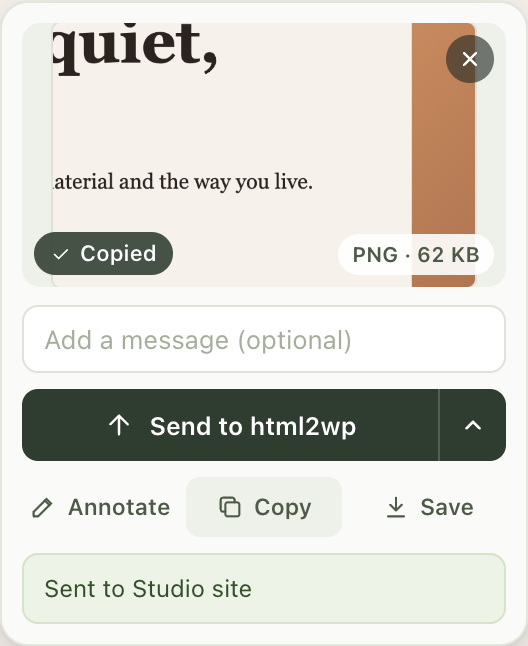
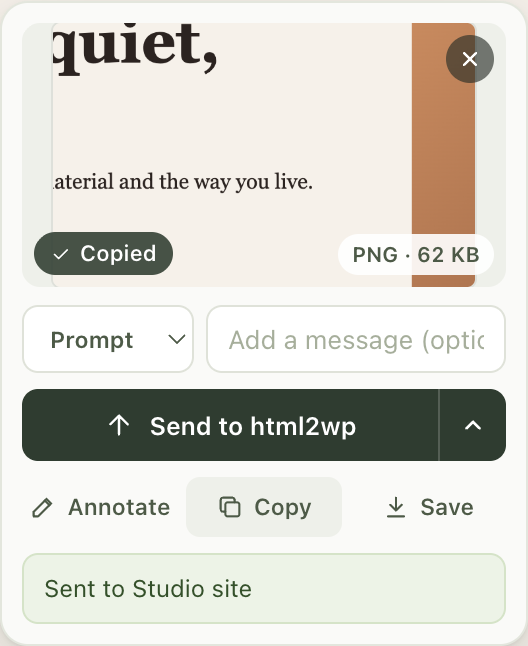
Prompt manager: saved prompts in Options, a picker in the card and editor
Four built-ins (Fix this bug, Explain this, Match this design, What's wrong
here?), seeded once. Add, edit, delete, reorder, and a default prompt that
fills each new capture's message. Right-click → Send with prompt ▸
captures the visible page and sends it with that prompt.

Claude-Session: https://claude.ai/code/session_01Xf7wTz9XZFZ1GCWzDzHaWW

Changed region(s): [[0.0909, 0.4644, 0.9091, 0.5882]]

diff --git a/src/options.js b/src/options.js
@@ -1,6 +1,6 @@
 import { connect, pair } from './bridge.js';
 import { paint } from './icons.js';
-import { PRESETS, settings, update, sitePattern, fileName, cleanSubfolder, isMac, choices, FIRST_DEFAULT } from './settings.js';
+import { PRESETS, settings, update, sitePattern, fileName, cleanSubfolder, isMac, choices, FIRST_DEFAULT, prompts } from './settings.js';
 import { getHandle, putHandle, deleteHandle } from './captures.js';
 import { FOLDER } from './save.js';
 import { acceptPastedImages } from './paste.js';
@@ -186,6 +186,61 @@ $('allow-folder').addEventListener('click', async () => {
 });
 $('forget-folder').addEventListener('click', async () => { await deleteHandle(FOLDER); await renderSaving(); });
 
+// ---- prompts ------------------------------------------------------------
+
+async function savePrompts(list) { await update({ prompts: list }); await renderPrompts(); }
+async function renderPrompts() {
+  const [list, s] = await Promise.all([prompts(), settings()]);
+  $('prompt-list').replaceChildren(...list.map((p, index) => {
+    const row = document.createElement('div');
+    row.className = 'prompt-row';
+    row.innerHTML = '<input aria-label="Prompt name" maxlength="60"><div class="moves"><button class="button up" type="button">Up</button><button class="button down" type="button">Down</button><button class="button text delete" type="button">Delete</button></div><textarea aria-label="Prompt text" maxlength="2000"></textarea>';
+    const [name, text] = [row.querySelector('input'), row.querySelector('textarea')];
+    name.value = p.name;
+    text.value = p.text;
+    name.setAttribute('aria-label', `Name of prompt ${index + 1}`);
+    text.setAttribute('aria-label', `Text of prompt ${index + 1}`);
+    const edited = async () => {
+      const current = await prompts();
+      await update({ prompts: current.map((x) => x.id === p.id ? { ...x, name: name.value.trim() || 'Untitled', text: text.value } : x) });
+      await renderDefaultPrompt();
+    };
+    name.addEventListener('change', edited);
+    text.addEventListener('change', edited);
+    const move = async (by) => {
+      const current = await prompts();
+      const at = current.findIndex((x) => x.id === p.id);
+      const to = at + by;
+      if (to < 0 || to >= current.length) return;
+      [current[at], current[to]] = [current[to], current[at]];
+      await savePrompts(current);
+    };
+    row.querySelector('.up').disabled = index === 0;
+    row.querySelector('.down').disabled = index === list.length - 1;
+    row.querySelector('.up').addEventListener('click', () => move(-1));
+    row.querySelector('.down').addEventListener('click', () => move(1));
+    row.querySelector('.delete').addEventListener('click', async () => {
+      const current = await prompts();
+      if (s.defaultPrompt === p.id) await update({ defaultPrompt: null });
+      await savePrompts(current.filter((x) => x.id !== p.id));
+    });
+    return row;
+  }));
+  await renderDefaultPrompt();
+}
+async function renderDefaultPrompt() {
+  const [list, s] = await Promise.all([prompts(), settings()]);
+  $('default-prompt').replaceChildren(new Option('None', ''), ...list.map((p) => new Option(p.name, p.id)));
+  $('default-prompt').value = list.some((p) => p.id === s.defaultPrompt) ? s.defaultPrompt : '';
+}
+$('default-prompt').addEventListener('change', (e) => update({ defaultPrompt: e.target.value || null }));
+$('add-prompt').addEventListener('click', async () => {
+  const current = await prompts();
+  await savePrompts([...current, { id: `prompt-${crypto.randomUUID().slice(0, 8)}`, name: 'New prompt', text: '' }]);
+  const names = $('prompt-list').querySelectorAll('input');
+  names[names.length - 1]?.select();
+});
+
 // ---- image format -------------------------------------------------------
 
 async function renderFormat() {
@@ -204,4 +259,4 @@ $('quality').addEventListener('change', async (e) => { await update({ imageQuali
 $('paste-keys').innerHTML = `Press <kbd>${isMac ? '⌘V' : 'Ctrl+V'}</kbd> anywhere on this page to open a pasted image in the editor`;
 acceptPastedImages();
 
-await Promise.all([renderDefault(), refreshApp(), renderDestinations(), renderSaving(), renderFormat()]);
+await Promise.all([renderDefault(), refreshApp(), renderDestinations(), renderSaving(), renderFormat(), renderPrompts()]);

diff --git a/src/card.js b/src/card.js
@@ -21,7 +21,10 @@
     .chip{position:absolute;left:6px;bottom:6px;display:inline-flex;align-items:center;gap:4px;padding:3px 8px;border-radius:999px;background:rgba(47,60,48,.88);color:#fff;font-size:11px;font-weight:560}
     .chip svg{width:11px;height:11px}
     .meta{position:absolute;right:6px;bottom:6px;padding:3px 7px;border-radius:999px;background:rgba(255,255,255,.9);color:#4d5a47;font-size:10.5px;font-weight:600;font-variant-numeric:tabular-nums}
-    .message{width:100%;height:34px;margin:9px 0 8px;padding:0 10px;border:1px solid #dfe2d9;border-radius:8px;background:#fff;color:#232a23;font:13px ui-sans-serif,-apple-system,BlinkMacSystemFont,"Segoe UI",sans-serif;outline:none}
+    .compose{display:flex;gap:6px;margin:9px 0 8px}
+    .prompt{flex:none;width:86px;height:34px;padding:0 6px 0 9px;border:1px solid #dfe2d9;border-radius:8px;background:#fff;color:#4d5a47;font:600 11.5px ui-sans-serif,-apple-system,BlinkMacSystemFont,"Segoe UI",sans-serif;cursor:pointer}
+    .prompt:focus{outline:none;border-color:#547254;box-shadow:0 0 0 2px rgba(84,114,84,.2)}
+    .message{min-width:0;flex:1;height:34px;margin:0;padding:0 10px;border:1px solid #dfe2d9;border-radius:8px;background:#fff;color:#232a23;font:13px ui-sans-serif,-apple-system,BlinkMacSystemFont,"Segoe UI",sans-serif;outline:none}
     .message::placeholder{color:#a6ae9b}
     .message:focus{border-color:#547254;box-shadow:0 0 0 2px rgba(84,114,84,.2)}
     .split{position:relative;display:flex;height:36px;border-radius:8px;background:#2f3c30;color:#fff}
@@ -66,7 +69,7 @@
       <div class="shot"><canvas aria-label="Captured area"></canvas>
         <button class="close" aria-label="Dismiss" title="Dismiss (Esc)">${i.close}</button>
         <span class="chip" hidden>${i.check}<span></span></span><span class="meta" title="Format and size of what is sent to web chats and saved"></span></div>
-      <input class="message" placeholder="Add a message (optional)" aria-label="Message" maxlength="2000">
+      <div class="compose"><select class="prompt" aria-label="Prompts" title="Fill the message with a saved prompt"><option value="" selected disabled>Prompt</option></select><input class="message" placeholder="Add a message (optional)" aria-label="Message" maxlength="2000"></div>
       <div class="split"><button class="send">${{ copy: i.copy, save: i.download }[o.main.kind] || i.send}<span></span></button><button class="more" aria-label="More destinations" aria-haspopup="menu" title="More destinations">${i.chevron}</button>
         <div class="menu" role="menu" hidden></div></div>
       <div class="tools">
@@ -228,6 +231,11 @@
     $('.save').addEventListener('click', () => void save());
 
     if (o.text) input.value = o.text;
+    // A saved prompt fills the message; it can still be edited.
+    const picker = $('.prompt');
+    for (const p of o.prompts || []) picker.append(new Option(p.name, p.text));
+    picker.hidden = !(o.prompts || []).length;
+    picker.addEventListener('change', () => { input.value = picker.value; picker.selectedIndex = 0; input.focus(); });
     document.documentElement.appendChild(host);
     // Every capture is on the clipboard too, ready for ⌘V / Ctrl+V anywhere.
     copy(false).then((ok) => chip(ok ? 'Copied' : ''));

diff --git a/src/menu.js b/src/menu.js
@@ -1,11 +1,11 @@
 // The right-click menu.
-import { destinations, defaultDestination, update } from './settings.js';
+import { destinations, defaultDestination, update, prompts } from './settings.js';
 import { startCapture, captureVisible, captureImage } from './capture.js';
 import { showCard } from './flow.js';
 
 const CONTEXTS = ['page', 'selection', 'image', 'link'];
 export async function menuItems() {
-  const [list, chosen] = await Promise.all([destinations(), defaultDestination()]);
+  const [list, chosen, saved] = await Promise.all([destinations(), defaultDestination(), prompts()]);
   const to = { copy: ['Capture and copy', 'Copy this image'], save: ['Capture and save', 'Save this image'] }[chosen.kind]
     || [`Capture and send to ${chosen.name}`, `Send this image to ${chosen.name}`];
   const item = (id, title, extra = {}) => ({ id, parentId: 'shot2ai', contexts: CONTEXTS, ...(title ? { title } : {}), ...extra });
@@ -17,6 +17,8 @@ export async function menuItems() {
     item('send-to', 'Send to'),
     ...list.map((d) => ({ id: `dest:${d.id}`, parentId: 'send-to', title: d.name, type: 'radio', checked: d.id === chosen.id, contexts: CONTEXTS })),
     item('capture-send', to[0]),
+    ...(saved.length ? [item('prompts', 'Send with prompt')] : []),
+    ...saved.map((p) => ({ id: `prompt:${p.id}`, parentId: 'prompts', title: p.name.slice(0, 60), contexts: CONTEXTS })),
     item('send-image', to[1], { contexts: ['image'] }),
     item('send-selection', 'Send selection with a screenshot', { contexts: ['selection'] }),
     item('sep-2', '', { type: 'separator' }),
@@ -46,5 +48,9 @@ export async function onMenuClick(info, tab) {
   const { id: captureId, capture } = await captureVisible(tab);
   if (id === 'capture-visible') await showCard(tab.id, captureId, capture);
   if (id === 'capture-send') await showCard(tab.id, captureId, capture, { autoSend: true });
+  if (id.startsWith('prompt:')) {
+    const prompt = (await prompts()).find((p) => p.id === id.slice(7));
+    await showCard(tab.id, captureId, capture, { text: prompt?.text || '', autoSend: true });
+  }
   if (id === 'send-selection') await showCard(tab.id, captureId, capture, { text: (info.selectionText || '').trim().slice(0, 2000) });
 }

diff --git a/src/settings.js b/src/settings.js
@@ -20,6 +20,8 @@ const DEFAULTS = {
   customChats: [],
   // The destination the card's main button uses.
   defaultDestination: 'chatgpt',
+  // The prompt that fills the message of every new capture, or null.
+  defaultPrompt: null,
   // Web chats the owner has been told receive the screenshot (by origin).
   acknowledged: {},
 };
@@ -40,6 +42,26 @@ export function sitePattern(url) {
 
 const chat = (c) => ({ ...c, kind: 'chat', selectors: c.selectors || [], origin: origin(c.url) });
 export const FIRST_DEFAULT = 'chatgpt';
+
+// Saved prompts. These four are there on first use; the owner may edit or delete them.
+export const BUILTIN_PROMPTS = [
+  { id: 'fix-bug', name: 'Fix this bug', text: 'This screenshot shows a bug. Find the cause and fix it.' },
+  { id: 'explain', name: 'Explain this', text: 'Explain what this screenshot shows.' },
+  { id: 'match-design', name: 'Match this design', text: 'Make my implementation match the design in this screenshot. List the differences first, then fix them.' },
+  { id: 'whats-wrong', name: "What's wrong here?", text: 'What looks wrong in this screenshot? List the problems, the most important first.' },
+];
+// The owner's prompts, in their order. Seeded once, so a deleted built-in stays deleted.
+export async function prompts() {
+  const { prompts: saved } = await chrome.storage.local.get('prompts');
+  if (Array.isArray(saved)) return saved;
+  await update({ prompts: BUILTIN_PROMPTS });
+  return BUILTIN_PROMPTS;
+}
+// The text of the default prompt, or '' when none is set.
+export async function defaultPromptText() {
+  const [list, s] = await Promise.all([prompts(), settings()]);
+  return list.find((p) => p.id === s.defaultPrompt)?.text || '';
+}
 // Everything the owner can choose as the default: ChatGPT, Claude, html2wp,
 // their own chats, then Copy only and Save only.
 export async function choices() {

diff --git a/src/editor.js b/src/editor.js
@@ -7,7 +7,7 @@
 import { connect, pair, sendToApp, outcomeText } from './bridge.js';
 import { getCapture, deleteCapture } from './captures.js';
 import { icons, paint } from './icons.js';
-import { destinations, defaultDestination, settings, update, sitePattern, fileName, modKey, isMac, actionLabel, COPY_ONLY } from './settings.js';
+import { destinations, defaultDestination, settings, update, sitePattern, fileName, modKey, isMac, actionLabel, COPY_ONLY, prompts, defaultPromptText } from './settings.js';
 import { saveImage, savedText } from './save.js';
 import { pasteIntoChat } from './webchat.js';
 import { encode, EXTENSIONS } from './imaging.js';
@@ -389,6 +389,7 @@ async function submit(target = destination, confirmed = false) {
   await check();
 }
 $('send').addEventListener('click', () => void submit());
+$('prompt').addEventListener('change', () => { $('message').value = $('prompt').value; $('prompt').selectedIndex = 0; $('message').focus(); });
 $('more').addEventListener('click', async () => {
   const menu = $('menu');
   if (!menu.hidden) { menu.hidden = true; return; }
@@ -474,6 +475,10 @@ async function start() {
     await load(capture.png, { title: capture.title, url: capture.url }, capture.scale);
   }
   if (params.get('text')) $('message').value = params.get('text');
+  else if (!$('message').value) $('message').value = await defaultPromptText();
+  // A saved prompt fills the message; it can still be edited.
+  for (const p of await prompts()) $('prompt').append(new Option(p.name, p.text));
+  $('prompt').hidden = $('prompt').options.length < 2;
   choose((await defaultDestination()) || COPY_ONLY);
 }
 addEventListener('resize', fit);

diff --git a/src/flow.js b/src/flow.js
@@ -1,7 +1,7 @@
 // The preview card and what its buttons do.
 import { getCapture } from './captures.js';
 import { sendToApp, outcomeText } from './bridge.js';
-import { destinations, defaultDestination, settings, update, fileName, actionLabel, COPY_ONLY } from './settings.js';
+import { destinations, defaultDestination, settings, update, fileName, actionLabel, COPY_ONLY, prompts, defaultPromptText } from './settings.js';
 import { saveImage, savedText } from './save.js';
 import { pasteIntoChat } from './webchat.js';
 import { icons } from './icons.js';
@@ -33,7 +33,7 @@ export async function showCard(tabId, id, capture, { text = '', autoSend = false
   await chrome.scripting.executeScript({
     target: { tabId },
     func: (o) => window.__shot2aiShowCard(o),
-    args: [{ id, png: await base64(capture.png), scale: capture.scale, destinations: list, main, meta, text, autoSend, acknowledged: s.acknowledged, saved, mod: (await isMac()) ? '⌘' : 'Ctrl+', icons: Object.fromEntries(pick.map((k) => [k, icons[k]])) }],
+    args: [{ id, png: await base64(capture.png), scale: capture.scale, destinations: list, main, meta, text: text || await defaultPromptText(), prompts: (await prompts()).map(({ name, text: t }) => ({ name, text: t })), autoSend, acknowledged: s.acknowledged, saved, mod: (await isMac()) ? '⌘' : 'Ctrl+', icons: Object.fromEntries(pick.map((k) => [k, icons[k]])) }],
   });
 }
 

diff --git a/src/options.html b/src/options.html
@@ -41,6 +41,13 @@
     <p id="dest-error" class="notice err" role="alert" hidden></p>
   </section>
 
+  <section class="section" aria-labelledby="prompts-title">
+    <div class="section-head"><div><h2 id="prompts-title">Prompts</h2><p>Saved messages to send with a screenshot. Pick one in the card or the editor, or right-click → Shot2AI → Send with prompt.</p></div></div>
+    <div id="prompt-list" class="list prompts"></div>
+    <div class="row"><button id="add-prompt" class="button" type="button">Add prompt</button><span class="push"></span><label class="row-label short" for="default-prompt">Default prompt</label><select id="default-prompt" class="field"></select></div>
+    <p class="note">The default prompt fills the message of every new capture.</p>
+  </section>
+
   <section class="section" aria-labelledby="save-title">
     <div class="section-head"><div><h2 id="save-title">Saving</h2><p>Keep a copy of your screenshots on this computer.</p></div></div>
     <label class="toggle row"><input id="save-copy" type="checkbox"><span>Save a copy of every capture</span></label>

diff --git a/src/options.css b/src/options.css
@@ -51,3 +51,12 @@
 #quality{width:260px;accent-color:var(--green-dark)}
 #quality:disabled{opacity:.4}
 #quality-value{font-size:12.5px;font-weight:600;color:var(--green-dark);min-width:64px}
+.prompts{gap:8px}
+.prompt-row{display:grid;grid-template-columns:1fr auto;gap:8px;padding:12px 14px;border:1px solid var(--line);border-radius:var(--radius);background:#fff}
+.prompt-row input,.prompt-row textarea{width:100%;padding:7px 10px;border:1px solid var(--line-strong);border-radius:6px;background:#fff;font:13px var(--font);color:var(--ink)}
+.prompt-row input{font-weight:600}
+.prompt-row textarea{grid-column:1;min-height:54px;resize:vertical;line-height:1.45}
+.prompt-row .moves{grid-row:1/span 2;grid-column:2;display:flex;flex-direction:column;gap:4px}
+.prompt-row .moves .button{min-height:28px;padding:4px 10px;font-size:11.5px}
+.row-label.short{width:auto}
+select.field{height:36px}

diff --git a/src/editor.css b/src/editor.css
@@ -62,3 +62,5 @@ textarea::placeholder{color:#a6ae9b}
 .notice .actions{display:flex;gap:6px;margin-top:9px}
 .notice .actions .button{min-height:30px;padding:6px 11px;font-size:12px}
 .missing kbd{font:600 11px/1 var(--mono);padding:3px 6px;border:1px solid var(--line-strong);border-bottom-width:2px;border-radius:5px;background:#fff;color:var(--green)}
+.label-row{display:flex;align-items:center;justify-content:space-between;gap:10px;margin-bottom:-4px}
+.prompt{height:28px;padding:0 8px;border:1px solid var(--line-strong);border-radius:6px;background:#fff;color:var(--green-dark);font:600 11.5px var(--font);cursor:pointer}

diff --git a/src/background.js b/src/background.js
@@ -10,7 +10,7 @@ import { saveImage, savedText } from './save.js';
 chrome.runtime.onInstalled.addListener(rebuildMenu);
 chrome.runtime.onStartup.addListener(rebuildMenu);
 chrome.storage.onChanged.addListener((changes) => {
-  if (['defaultDestination', 'presets', 'customChats'].some((k) => k in changes)) rebuildMenu();
+  if (['defaultDestination', 'presets', 'customChats', 'prompts'].some((k) => k in changes)) rebuildMenu();
 });
 chrome.contextMenus.onClicked.addListener((info, tab) => { onMenuClick(info, tab).catch(flagError); });
 

diff --git a/src/editor.html b/src/editor.html
@@ -67,7 +67,7 @@
       </div>
     </form>
 
-    <label class="label" for="message">Message</label>
+    <div class="label-row"><label class="label" for="message">Message</label><select id="prompt" class="prompt" aria-label="Prompts" title="Fill the message with a saved prompt"><option value="" selected disabled>Use a prompt…</option></select></div>
     <textarea id="message" rows="7" placeholder="Describe what is wrong or what should change…"></textarea>
 
     <div id="result" class="notice" role="status" hidden></div>
